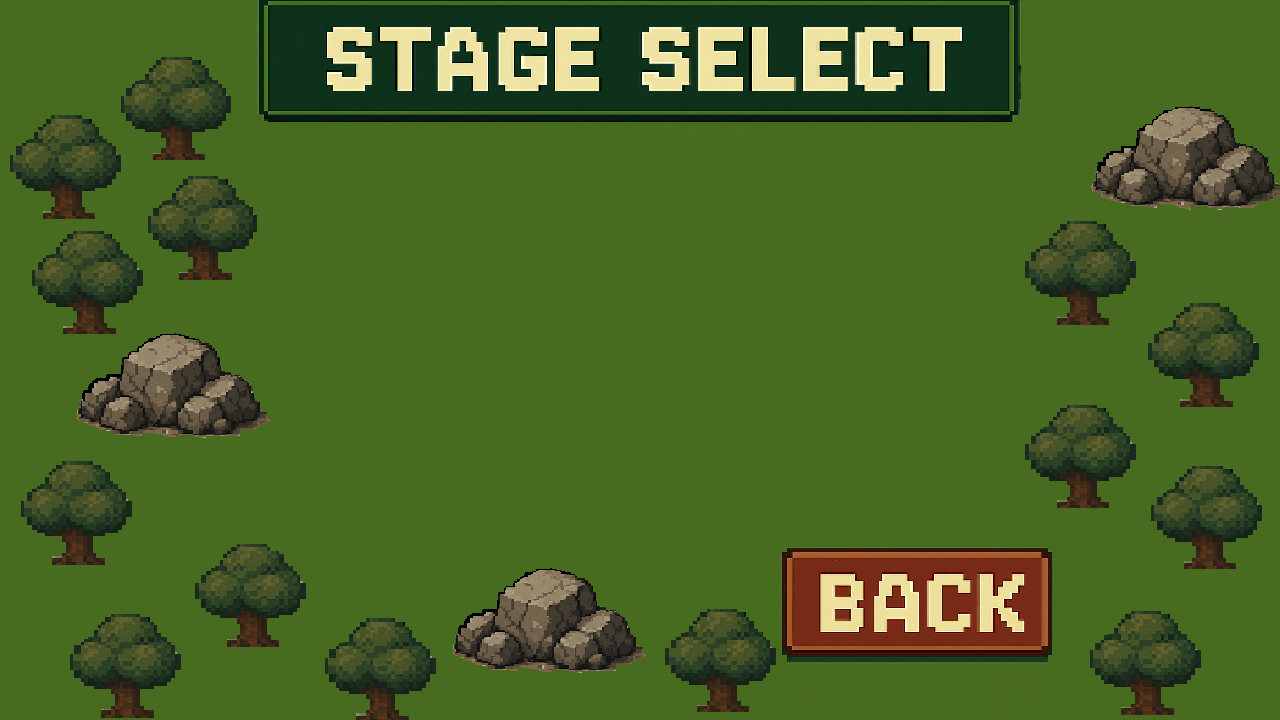
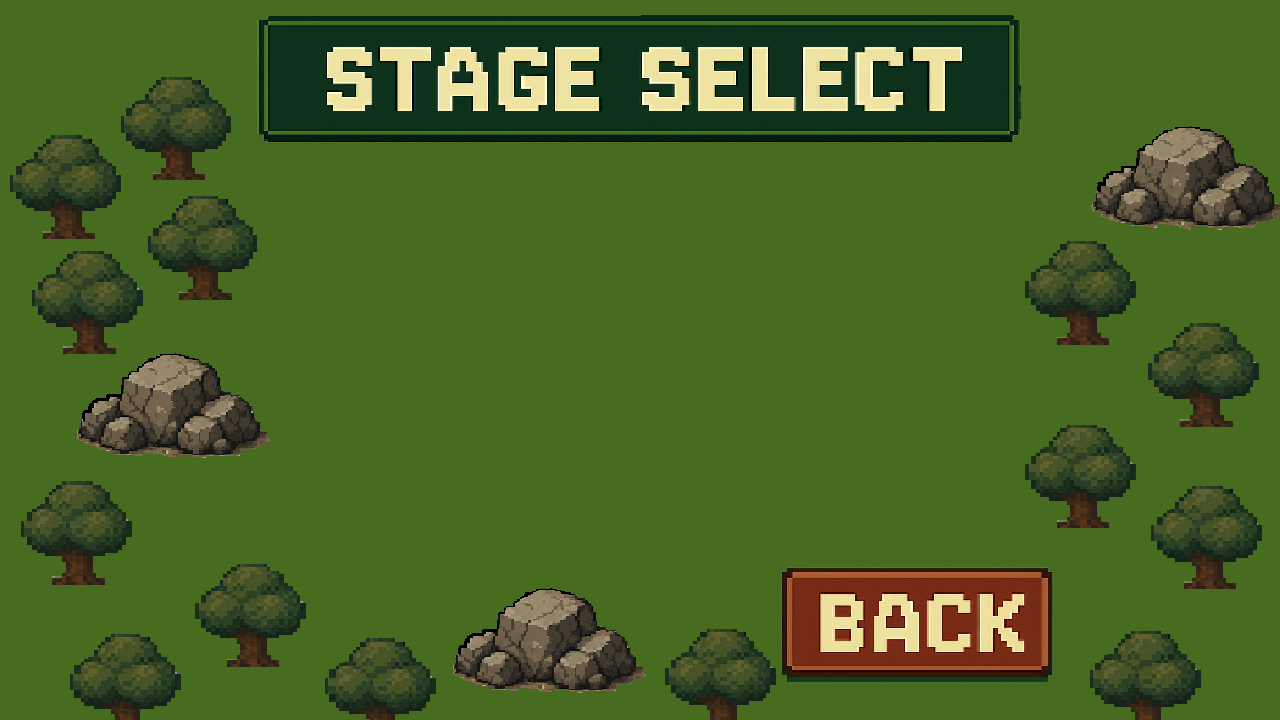
Select画面の画像修正

diff --git a/DxLib_TGS2025/Src/Scene/StageSelect/StageSelectScene.cpp b/DxLib_TGS2025/Src/Scene/StageSelect/StageSelectScene.cpp
@@ -26,7 +26,7 @@ void StageSelectSceneInit(void)
 {  
 	//ポジションの初期化
 	stageselect.position.x = 400.0f;
-	stageselect.position.y = 235.0f;
+	stageselect.position.y = 255.0f;
 	//ステージ番号の初期化
 	stageselect.number = 0;
 	//ステージ配列の初期化
@@ -190,21 +190,21 @@ void StageSelectCarMove(void)
 		if (stageselect.array_y > 0 && stageselect.array_y != 2)
 		{
 			stageselect.array_y--;
-			stageselect.position.y = 200.0f * stageselect.array_y + 235.0f;
+			stageselect.position.y = 200.0f * stageselect.array_y + 255.0f;
 
 		}
 		else if (stageselect.array_y == 0)
 		{
 			stageselect.array_y = 2;
 			stageselect.position.x = 920.0f;
-			stageselect.position.y = 605.0f;
+			stageselect.position.y = 625.0f;
 		}
 		else if (stageselect.array_y == 2)
 		{
 			stageselect.array_x = 2;
 			stageselect.array_y--;
 			stageselect.position.x = 240.0f * stageselect.array_x + 400.0f;
-			stageselect.position.y = 200.0f * stageselect.array_y + 235.0f;
+			stageselect.position.y = 200.0f * stageselect.array_y + 255.0f;
 		}
 
 		// 移動のSE（左とおんなじ音入れてね）
@@ -217,14 +217,14 @@ void StageSelectCarMove(void)
 		if (stageselect.array_y < 1)
 		{
 			stageselect.array_y++;
-			stageselect.position.y = 200.0f * stageselect.array_y + 235.0f;
+			stageselect.position.y = 200.0f * stageselect.array_y + 255.0f;
 
 		}
 		else if (stageselect.array_y == 1)
 		{
 			stageselect.array_y = 2;
 			stageselect.position.x = 920.0f;
-			stageselect.position.y = 605.0f;
+			stageselect.position.y = 625.0f;
 
 		}
 		else if (stageselect.array_y == 2)
@@ -232,7 +232,7 @@ void StageSelectCarMove(void)
 			stageselect.array_x = 2;
 			stageselect.array_y = 0;
 			stageselect.position.x = 240.0f * stageselect.array_x + 400.0f;
-			stageselect.position.y = 200.0f * stageselect.array_y + 235.0f;
+			stageselect.position.y = 200.0f * stageselect.array_y + 255.0f;
 		}
 		// 移動のSE（左とおんなじ音入れてね）
 		Play_Sound_StageSelect_NC(stageselect.cursor_se, 80);
@@ -300,9 +300,9 @@ void NumTroutDraw(void)
 			//X座標が280.0ｆ（余白）+端から中心までの120.0ｆ
 			//Y座標が135.0ｆ（余白）+端から中心までの100.0f
 			//枠の描画
-			DrawRotaGraphF(i * 240.0f + 400.0f, j * 200.0f + 235.0f, 0.4, 0.0, stageselect.trout_array[i][j], TRUE);
+			DrawRotaGraphF(i * 240.0f + 400.0f, j * 200.0f + 255.0f, 0.4, 0.0, stageselect.trout_array[i][j], TRUE);
 			//数字の描画
-			DrawRotaGraphF(i * 240.0f + 400.0f, j * 200.0f + 210.0f, 0.4, 0.0, stageselect.number_image[stageselect.array_number], TRUE);
+			DrawRotaGraphF(i * 240.0f + 400.0f, j * 200.0f + 230.0f, 0.4, 0.0, stageselect.number_image[stageselect.array_number], TRUE);
 			stageselect.array_number++;
 		}
 	}
